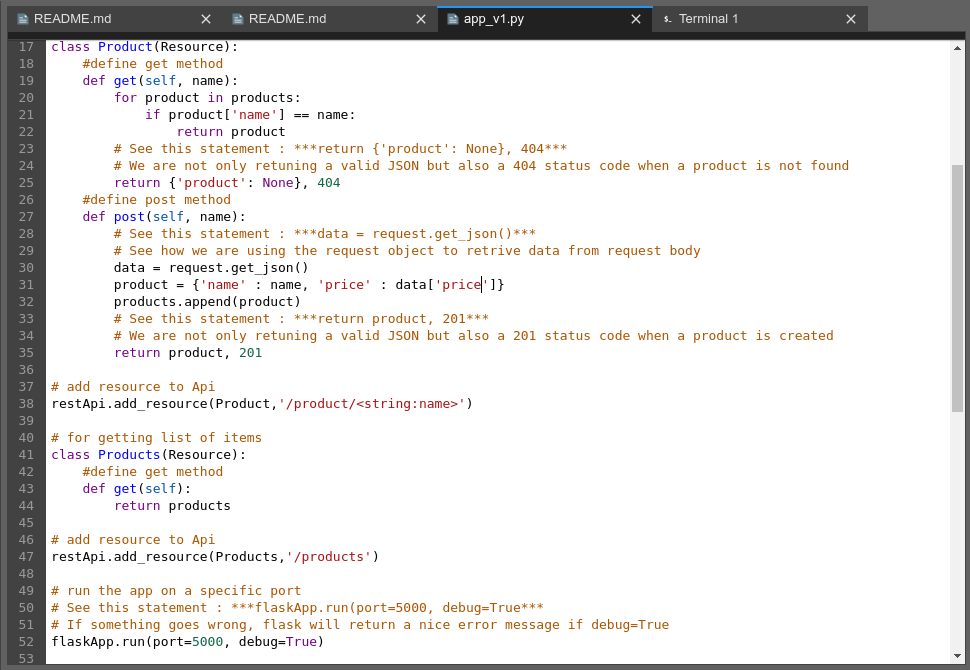
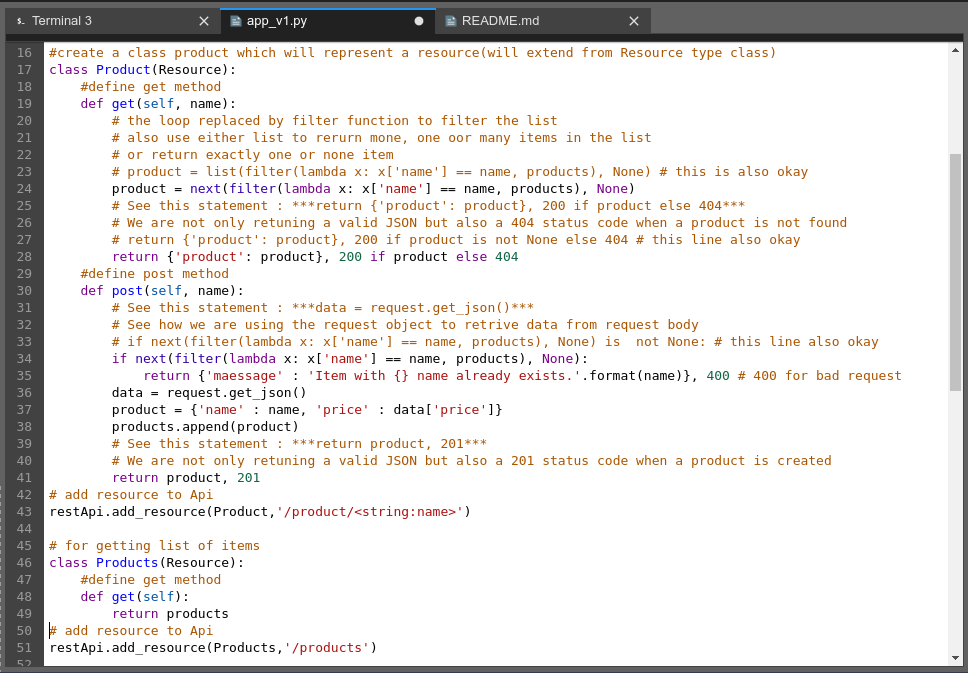
added code and docs for TDD based RESTful API update 04

diff --git a/Python 201/004-TDDBasedAPIs/app_v1.py b/Python 201/004-TDDBasedAPIs/app_v1.py
@@ -17,23 +17,28 @@ products = []
 class Product(Resource):
     #define get method
     def get(self, name):
-        for product in products:
-            if product['name'] == name:
-                return product
-        # See this statement : ***return {'product': None}, 404***
+        # the loop replaced by filter function to filter the list
+        # also use either list to rerurn mone, one oor many items in the list
+        # or return exactly one or none item
+        # product = list(filter(lambda x: x['name'] == name, products), None) # this is also okay
+        product = next(filter(lambda x: x['name'] == name, products), None)
+        # See this statement : ***return {'product': product}, 200 if product else 404***
         # We are not only retuning a valid JSON but also a 404 status code when a product is not found
-        return {'product': None}, 404
+        # return {'product': product}, 200 if product is not None else 404 # this line also okay
+        return {'product': product}, 200 if product else 404
     #define post method
     def post(self, name):
         # See this statement : ***data = request.get_json()***  
         # See how we are using the request object to retrive data from request body
+        # if next(filter(lambda x: x['name'] == name, products), None) is  not None: # this line also okay
+        if next(filter(lambda x: x['name'] == name, products), None):
+            return {'maessage' : 'Item with {} name already exists.'.format(name)}, 400 # 400 for bad request
         data = request.get_json()
         product = {'name' : name, 'price' : data['price']}
         products.append(product)
         # See this statement : ***return product, 201***  
         # We are not only retuning a valid JSON but also a 201 status code when a product is created
         return product, 201
-
 # add resource to Api
 restApi.add_resource(Product,'/product/<string:name>')
 
@@ -42,7 +47,6 @@ class Products(Resource):
     #define get method
     def get(self):
         return products
-
 # add resource to Api
 restApi.add_resource(Products,'/products')
 

diff --git a/Python 201/004-TDDBasedAPIs/README.md b/Python 201/004-TDDBasedAPIs/README.md
@@ -23,6 +23,14 @@
     * See this statement : ***data = request.get_json()***  
     * See how we are using the request object to retrive data from request body
     * We are not only retuning a valid JSON but also a 201 status code when a product is created
+    * Also see below how we replaced a for loop with a filter function
+      * the loop replaced by filter function to filter the list
+      * also use either list to rerurn mone, one oor many items in the list
+      * or return exactly one or none item
+      * product = next(filter(lambda x: x['name'] == name, products), None)
+      * also,
+      * return {'product': product}, 200 if product else 404
+      * in above method we are returning product, status code 200 if product exists else 404z
     
     ```
     #import Flask class from flask package
@@ -44,21 +52,29 @@
     class Product(Resource):
         #define get method
         def get(self, name):
-            for product in products:
-                if product['name'] == name:
-                    return product
-            # See this statement : ***return {'product': None}, 404***
+            # the loop replaced by filter function to filter the list
+            # also use either list to rerurn mone, one oor many items in the list
+            # or return exactly one or none item
+            # product = list(filter(lambda x: x['name'] == name, products), None) # this is also okay
+            product = next(filter(lambda x: x['name'] == name, products), None)
+            # See this statement : ***return {'product': product}, 200 if product else 404***
             # We are not only retuning a valid JSON but also a 404 status code when a product is not found
-            return {'product': None}, 404
+            # return {'product': product}, 200 if product is not None else 404 # this line also okay
+            return {'product': product}, 200 if product else 404
         #define post method
         def post(self, name):
             # See this statement : ***data = request.get_json()***  
             # See how we are using the request object to retrive data from request body
-            product = {'name' : name, 'price' : 10.00}
+            # checking if product already exists then message and return as a bad request
+            # if next(filter(lambda x: x['name'] == name, products), None) is  not None: # this line also okay
+            if next(filter(lambda x: x['name'] == name, products), None):
+                return {'maessage' : 'Item with {} name already exists.'.format(name)}, 400 # 400 for bad request
+            data = request.get_json()
+            product = {'name' : name, 'price' : data['price']}
             products.append(product)
             # See this statement : ***return product, 201***  
             # We are not only retuning a valid JSON but also a 201 status code when a product is created
-            return product
+            return product, 201
 
     # add resource to Api
     restApi.add_resource(Product,'/product/<string:name>' )
@@ -91,6 +107,10 @@
     
     * The Post(Creating a new product) output for first TDD based RESTful Api:
     ![First TDD based RESTful Api code](../images/002-03-FirstTTDBasedRestfulAPI-ServerOuput-Post.png)
+       ---------------------------------------------------------------------------------
+    
+    * The Post(Creating a new product but its exists) output for first TDD based RESTful Api:
+    ![First TDD based RESTful Api code](../images/002-03-FirstTTDBasedRestfulAPI-ServerOuput-AlreadyExists.png)
        ---------------------------------------------------------------------------------
     
     * The Get(Get a Single product) output for first TDD based RESTful Api:
